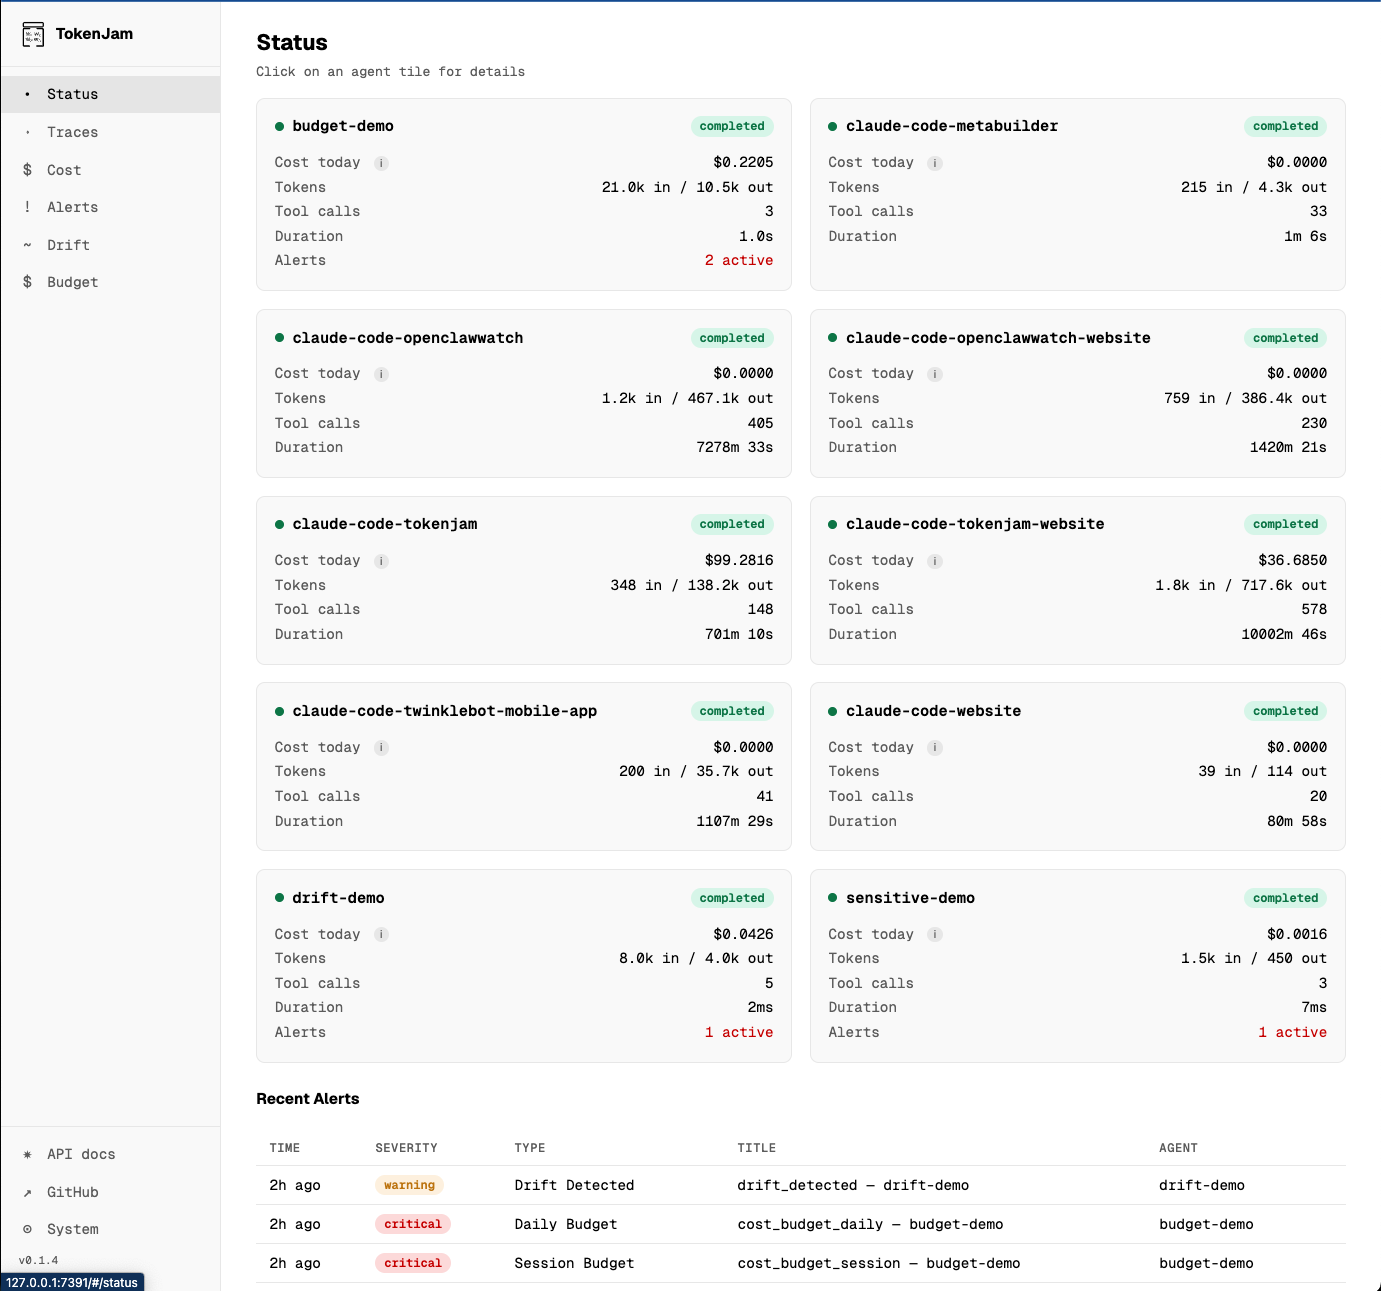
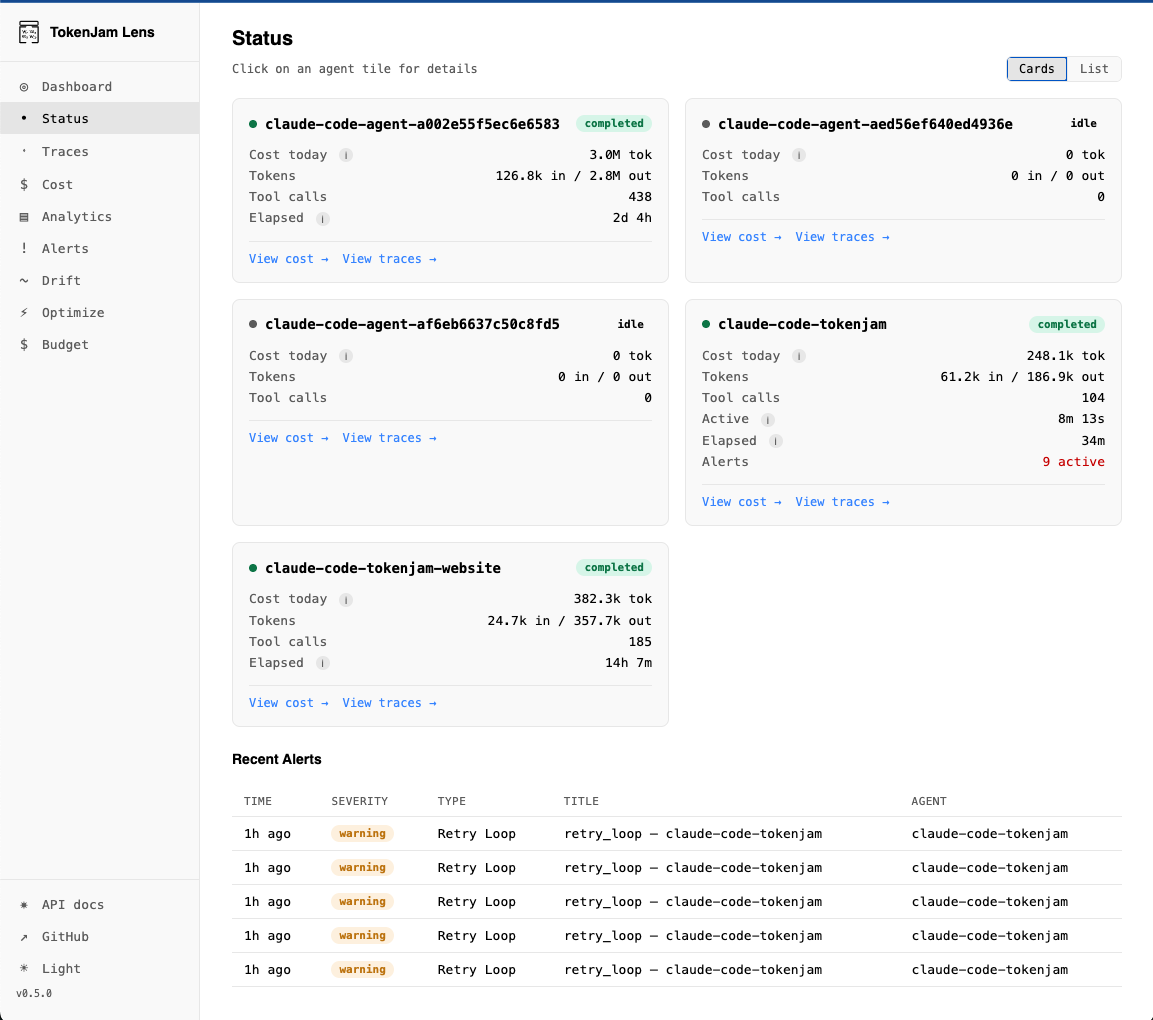
docs: refresh Lens screenshots for the merged Dashboard (6 screens) (#273)
* docs: refresh Lens screenshots for the merged Dashboard (6 screens)

Replace the four 0.4.x Lens screenshots with six current captures: the
new merged Dashboard (the default screen — recoverable waste + health +
embedded explorer), Cost (spend + cache savings), the session-level trace
waterfall, Status cards, and two explorer views (tool-usage and
cost-by-model leaderboards). Update the section intro to describe the
Dashboard instead of the retired Overview/Optimize-tab split, and drop
the now-unreferenced tj-alerts.png.

Claude-Session: https://claude.ai/code/session_015e3DZGhb1R5sXX2x52Y2Ar

* docs: swap Dashboard + Cost screenshots for real 0.5.1 captures

The dev-tip captures showed pre-0.5.1 UI — the Dashboard with '% of cycle'
(now '× plan value', #262) and the Cost screen with the old dual-axis cache
chart (replaced by the answer-first Caching card, #246). Replace both with
fresh 0.5.1 captures.

Claude-Session: https://claude.ai/code/session_015e3DZGhb1R5sXX2x52Y2Ar

* docs: show the 'tj' next-steps banner in the quickstart

Renders the bare-`tj` welcome output (ASCII wordmark + next-best-actions)
as a text block so new users see the post-install landing right in the README.

Claude-Session: https://claude.ai/code/session_015e3DZGhb1R5sXX2x52Y2Ar

* docs: 0.5.1 waterfall + tool-board screenshots; ASCII wordmark in header

Swap the Trace waterfall (now the #244 redesign — named-span column,
magnitude bars, status icons, offsets) and the tool-usage explorer for
[…]

diff --git a/README.md b/README.md
@@ -2,7 +2,7 @@
 
 <img src="https://tokenjam.dev/icon.svg" alt="TokenJam" width="72" height="72">
 
-# TokenJam
+<img src="docs/screenshots/tokenjam-wordmark.png" alt="TokenJam" width="260">
 
 ### Token Efficiency For AI Agents
 
@@ -124,6 +124,23 @@ tj optimize          # cost-saving candidates from your actual usage
 tj serve             # open the dashboard at http://127.0.0.1:7391/
 ```
 
+That's it. Run `tj` any time and it points you to the next best action:
+
+```text
+ _____    _              _
+|_   _|__| |_____ _ _   | |__ _ _ __
+  | |/ _ \ / / -_) ' \  | / _` | '  \
+  |_|\___/_\_\___|_||_|_/ \__,_|_|_|_|
+                     |__/
+  TokenJam · cost-optimization for AI agents · local-first, OTel-native · no signup
+
+You're set up. Next best actions:
+  tj status      agent overview — what's running, recent cost
+  tj tokenmaxx   your shareable spend tier
+  tj optimize    cost-saving candidates from your usage
+  tj serve       open Lens (web UI) at http://127.0.0.1:7391/
+```
+
 To upgrade later: `pipx upgrade tokenjam` (then `tj stop && tj serve &` to reload the daemon, and `tj --version` to verify). See [docs/installation.md](docs/installation.md#upgrading).
 
 For any Python agent:
@@ -145,16 +162,20 @@ def run(task: str) -> str:
 
 ## Lens — the local dashboard
 
-`tj serve` runs Lens at `http://127.0.0.1:7391/`: an Overview triage screen with spend, recoverable waste, and health at a glance; an Optimize tab showing every analyzer's findings side by side; and the standard Status, Traces, Cost, Alerts, Drift, and Budget screens. Plan-tier-aware, fully offline, no signup.
+`tj serve` runs Lens at `http://127.0.0.1:7391/`: a **Dashboard** that lands you on recoverable waste and health at a glance, with an embedded explorer to slice your usage any way (metric × dimension × chart); plus Status, Traces, Cost, Analytics, Alerts, Drift, Optimize, and Budget screens. Plan-tier-aware, fully offline, no signup.
 
 <table>
 <tr>
-<td width="50%"><img src="docs/screenshots/tj-status.png" alt="Status screen" /></td>
-<td width="50%"><img src="docs/screenshots/tj-cost.png" alt="Cost screen with spend-over-time chart" /></td>
+<td width="50%"><img src="docs/screenshots/tj-dashboard.png" alt="Dashboard — recoverable waste, health at a glance, and the embedded pivot explorer" /></td>
+<td width="50%"><img src="docs/screenshots/tj-cost.png" alt="Cost — spend over time + cache savings" /></td>
 </tr>
 <tr>
-<td width="50%"><img src="docs/screenshots/tj-traces.png" alt="Traces table" /></td>
-<td width="50%"><img src="docs/screenshots/tj-alerts.png" alt="Alerts table" /></td>
+<td width="50%"><img src="docs/screenshots/tj-traces.png" alt="Trace waterfall — session-level spans with cost annotations" /></td>
+<td width="50%"><img src="docs/screenshots/tj-status.png" alt="Status — per-agent cards" /></td>
+</tr>
+<tr>
+<td width="50%"><img src="docs/screenshots/tj-dashboard-tools.png" alt="Analytics explorer — tool-usage leaderboard" /></td>
+<td width="50%"><img src="docs/screenshots/tj-dashboard-leaderboard.png" alt="Analytics explorer — cost-by-model leaderboard" /></td>
 </tr>
 </table>
 